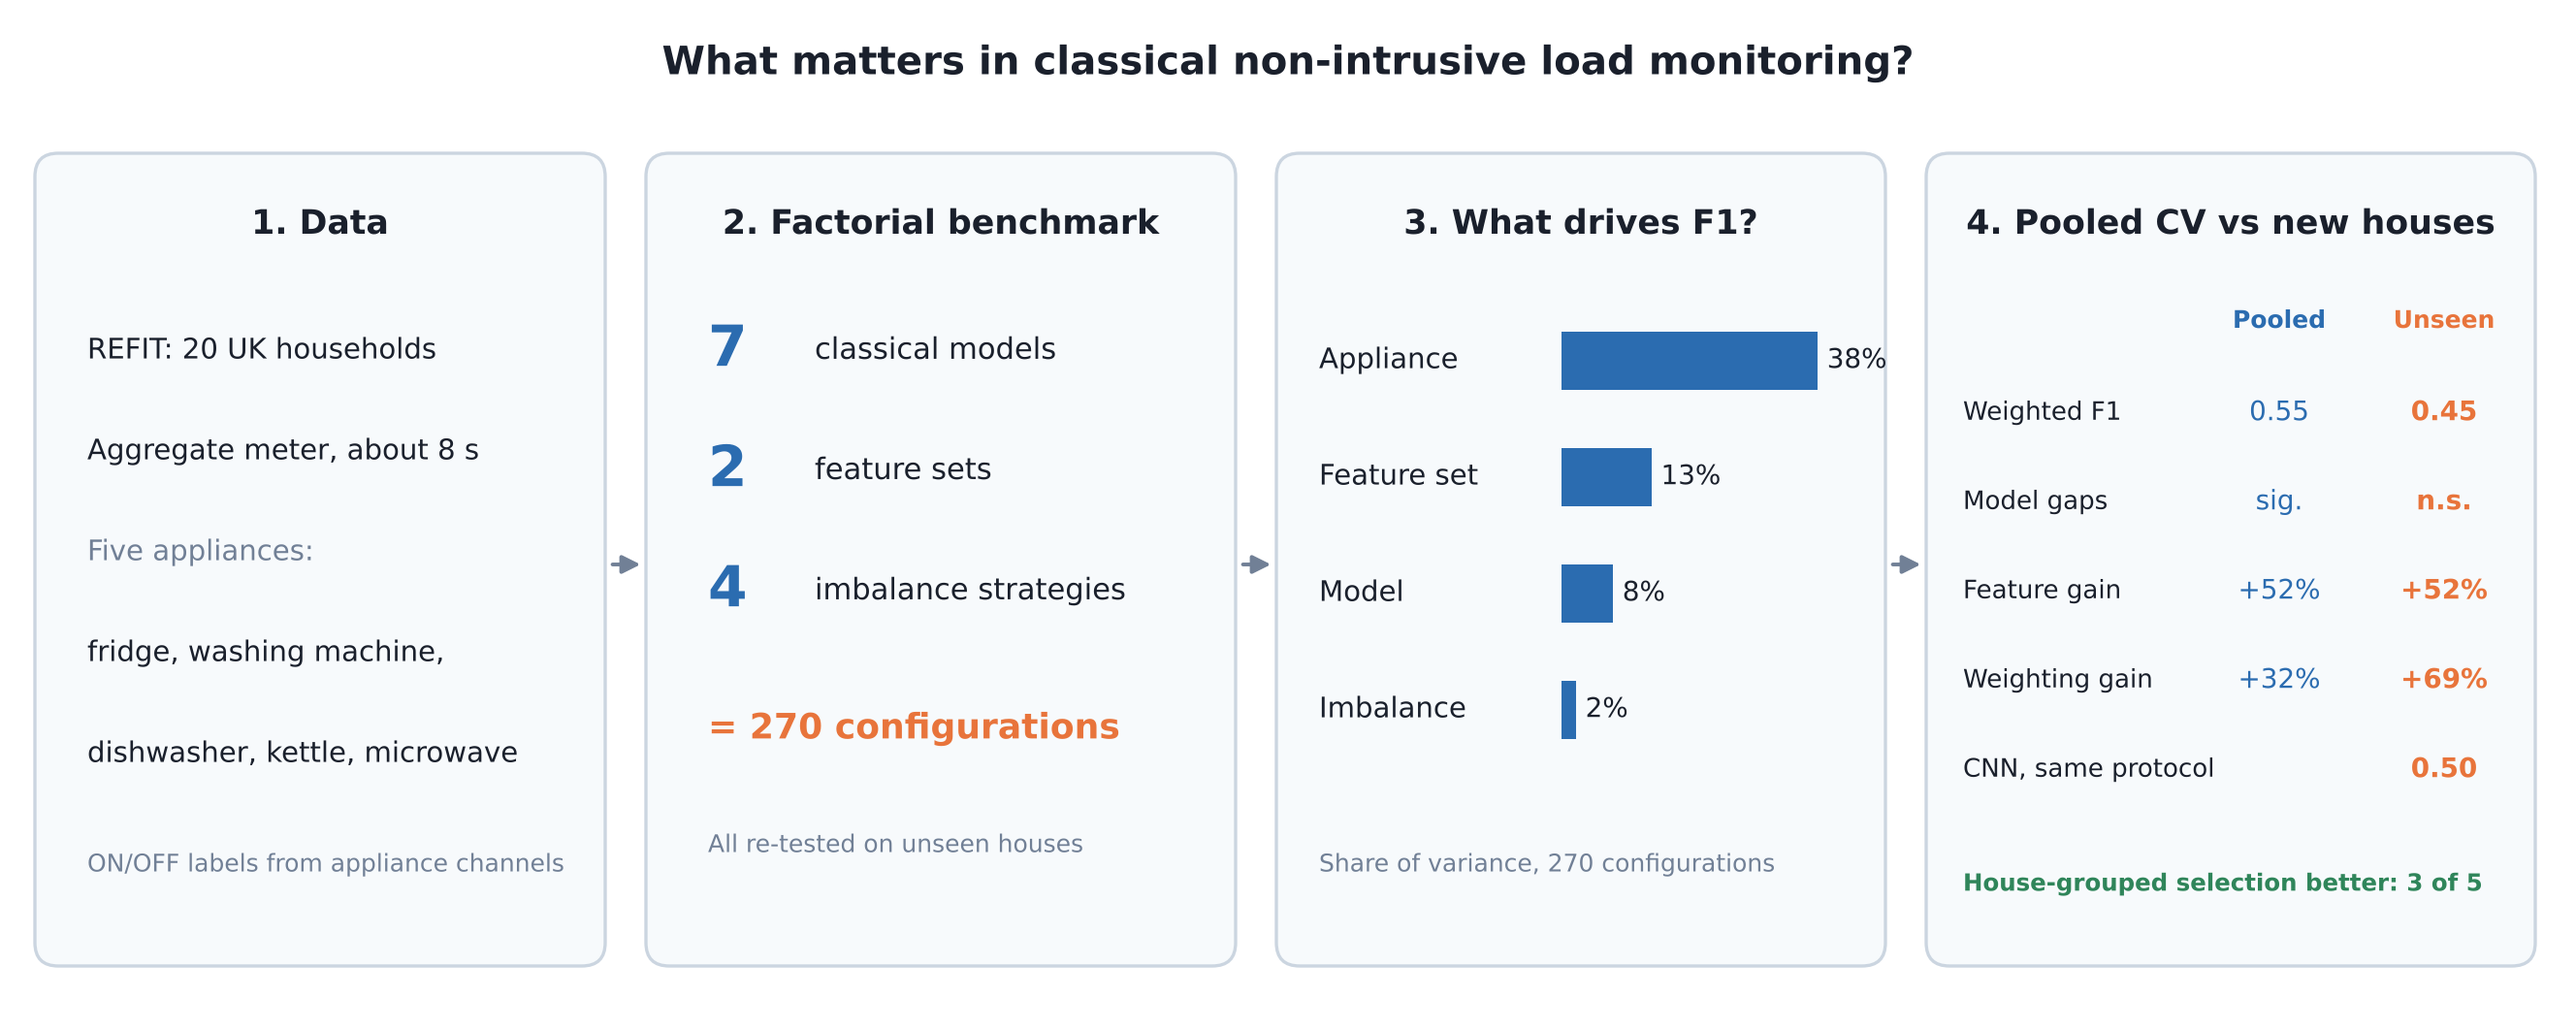
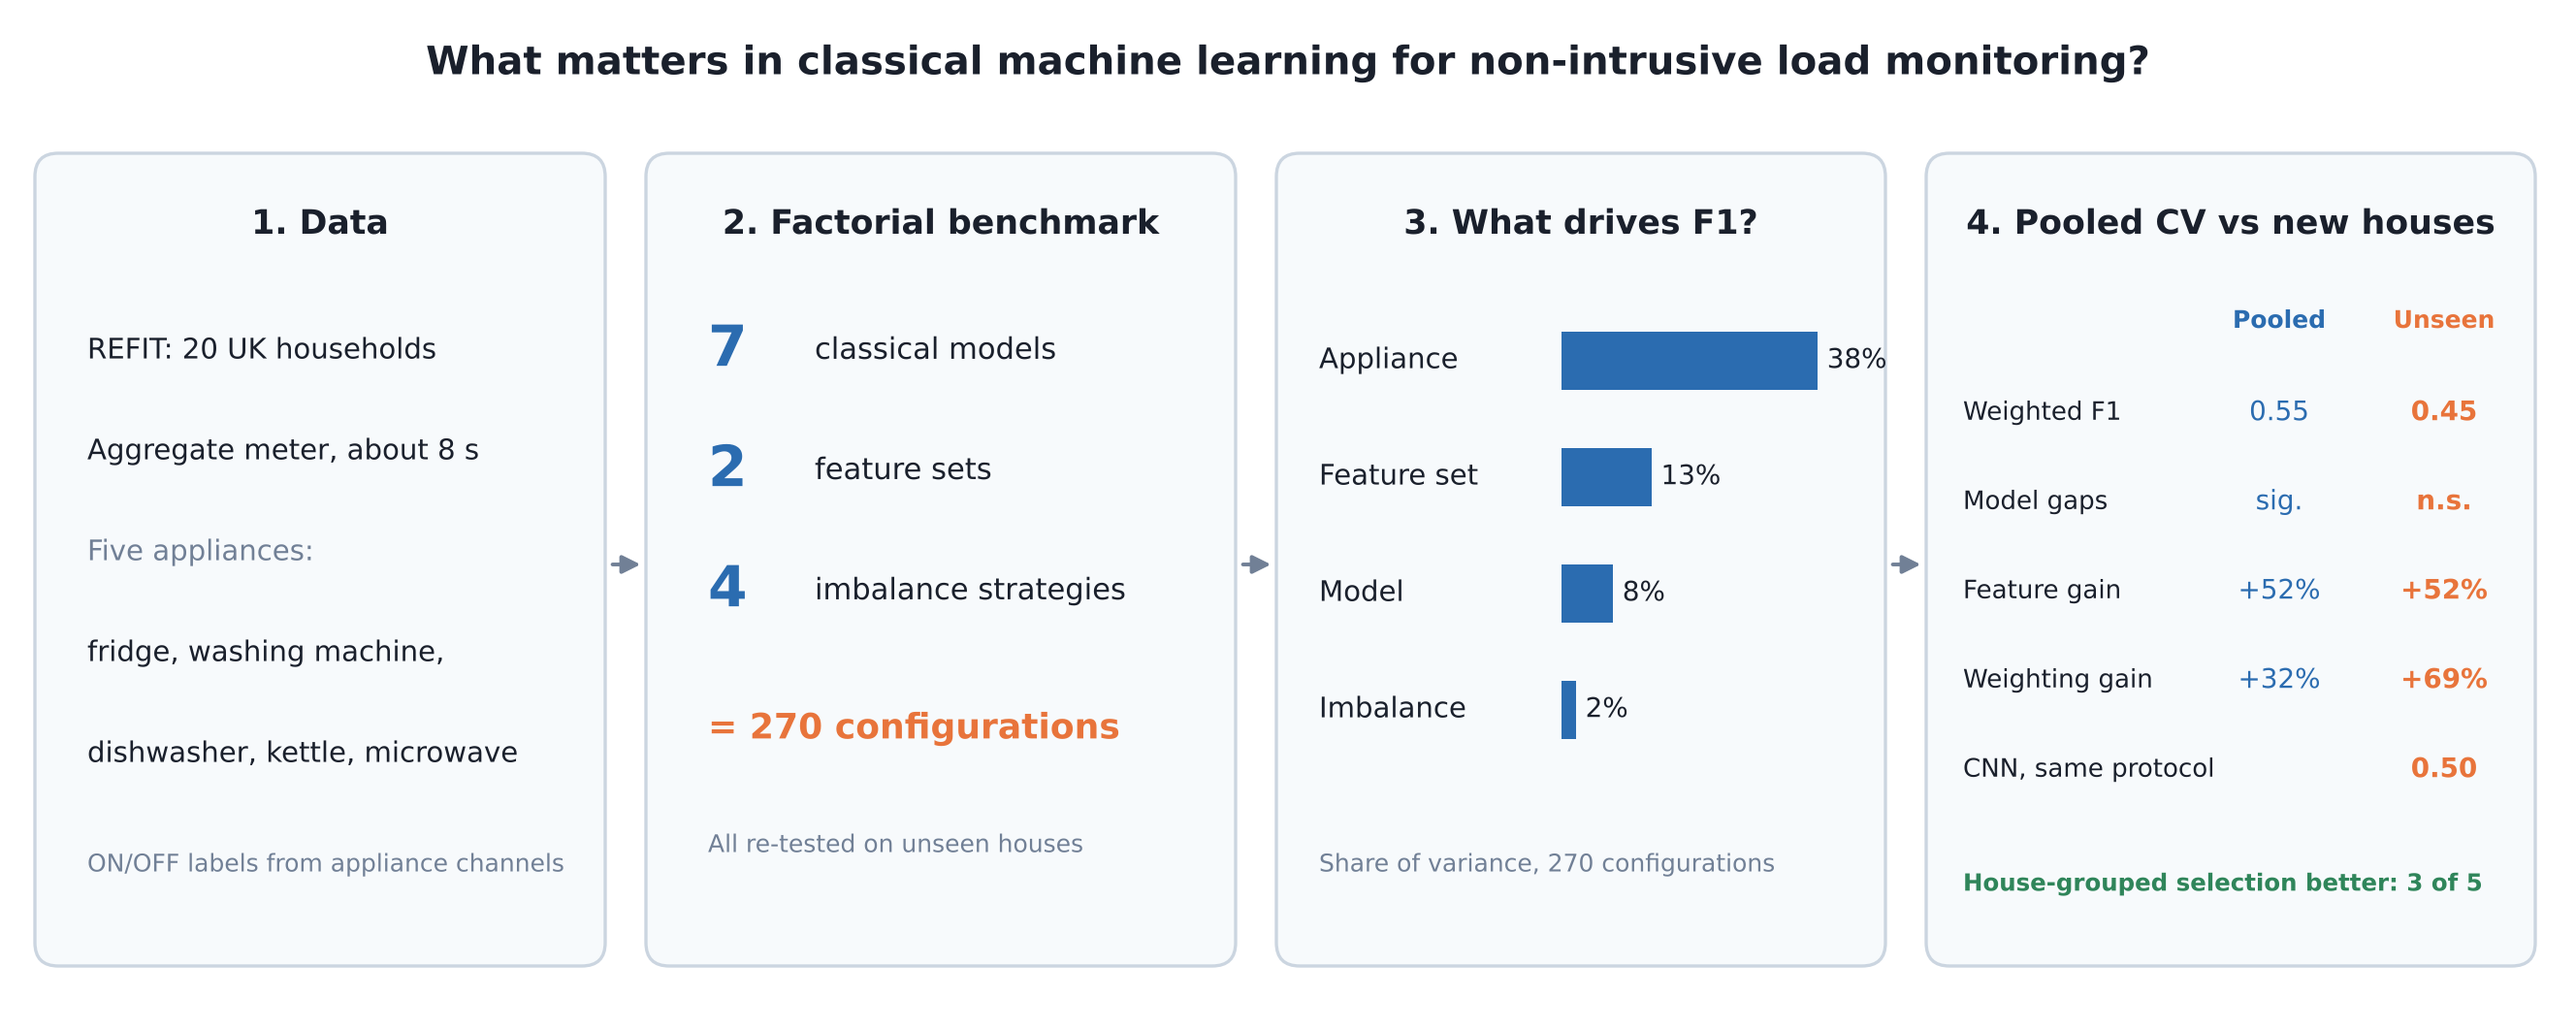
Update paper title to 'What matters in classical machine learning for non-intrusive load monitoring?'
Claude-Session: https://claude.ai/code/session_01CS16m7nrt7MRqkNhtdjDxB

Changed region(s): [[0.1562, 0.0311, 0.8438, 0.0932]]

diff --git a/src/make_paper_figures.py b/src/make_paper_figures.py
@@ -146,7 +146,7 @@ fig = plt.figure(figsize=(13.28, 5.31), dpi=200); ax = fig.add_axes([0, 0, 1, 1]
 def box(x0, w0, t):
     ax.add_patch(FancyBboxPatch((x0, 0.35), w0, 4.15, boxstyle="round,pad=0.02,rounding_size=0.12", fc="#f7fafc", ec="#cbd5e0", lw=1.2))
     ax.text(x0 + w0 / 2, 4.15, t, ha="center", va="center", fontsize=12.5, fontweight="bold", color=INK)
-ax.text(6.64, 4.98, "What matters in classical non-intrusive load monitoring?", ha="center", va="center", fontsize=14.5, fontweight="bold", color=INK)
+ax.text(6.64, 4.98, "What matters in classical machine learning for non-intrusive load monitoring?", ha="center", va="center", fontsize=14.5, fontweight="bold", color=INK)
 box(0.2, 2.9, "1. Data")
 for i, t in enumerate(["REFIT: 20 UK households", "Aggregate meter, about 8 s", "Five appliances:", "fridge, washing machine,", "dishwasher, kettle, microwave"]):
     ax.text(0.45, 3.5 - i * 0.52, t, fontsize=10.5, color=INK if i != 2 else MUTE, va="center")

diff --git a/README.md b/README.md
@@ -1,6 +1,6 @@
-# What matters in classical non-intrusive load monitoring?
+# What matters in classical machine learning for non-intrusive load monitoring?
 
-Code, configuration files and complete results for the study **"What matters in classical non-intrusive load monitoring? A factorial benchmark on REFIT with validation on unseen houses"** (Zablon Ombiro, Strathmore University). The paper is being submitted to *Energy and Buildings*; a preprint will be posted on arXiv.
+Code, configuration files and complete results for the study **"What matters in classical machine learning for non-intrusive load monitoring? A factorial benchmark on REFIT with validation on unseen houses"** (Zablon Ombiro, Strathmore University). The paper is being submitted to *Energy and Buildings*; a preprint will be posted on arXiv.
 
 The study asks which design choices determine the performance of classical machine learning for appliance ON/OFF classification in non-intrusive load monitoring (NILM), and which of the resulting conclusions survive validation on houses that the models never saw during training.
 
